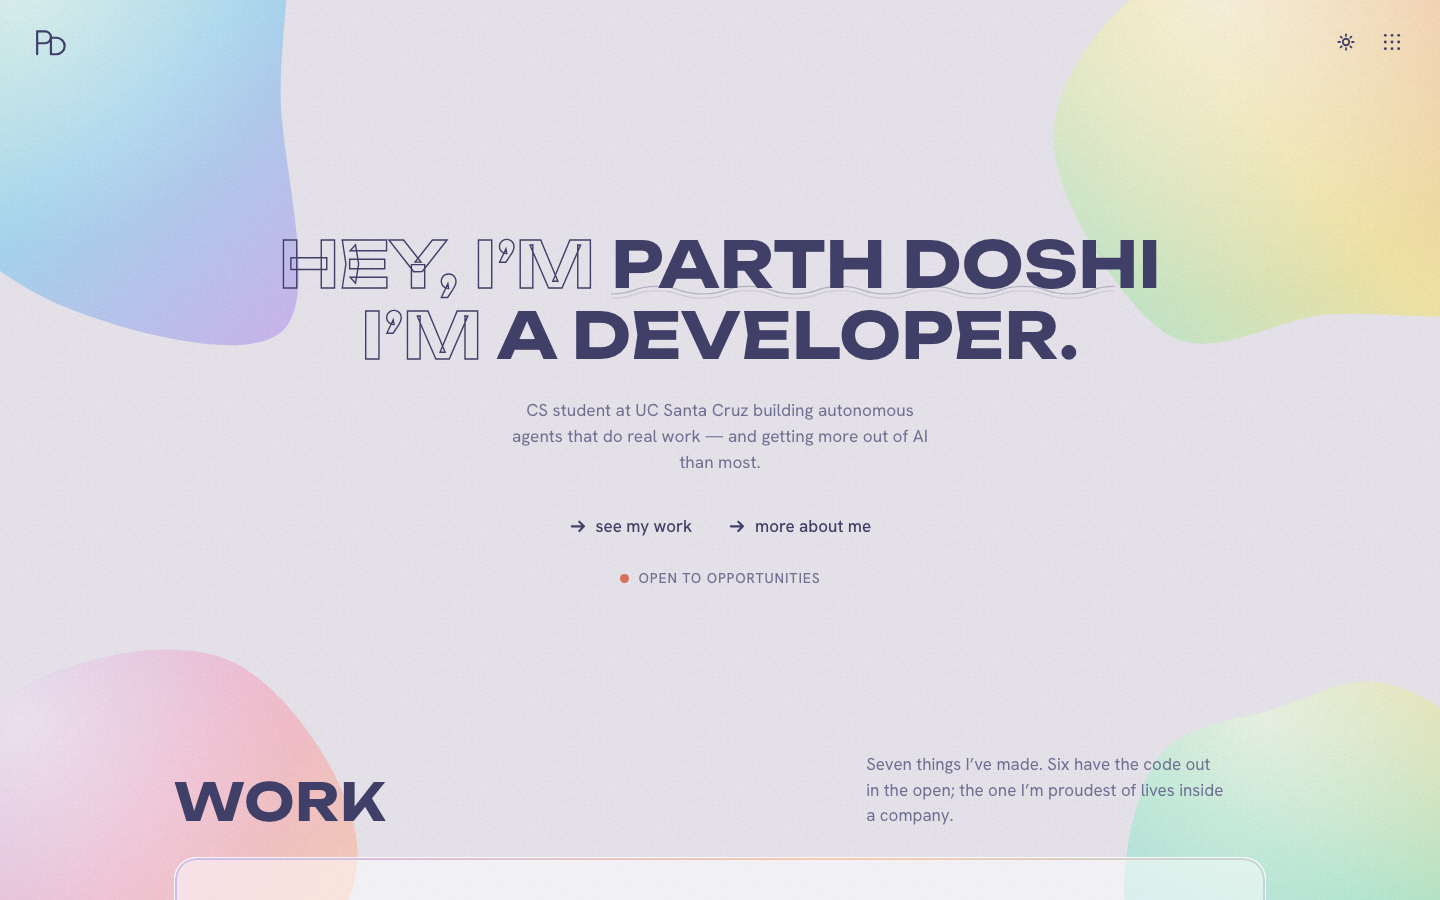
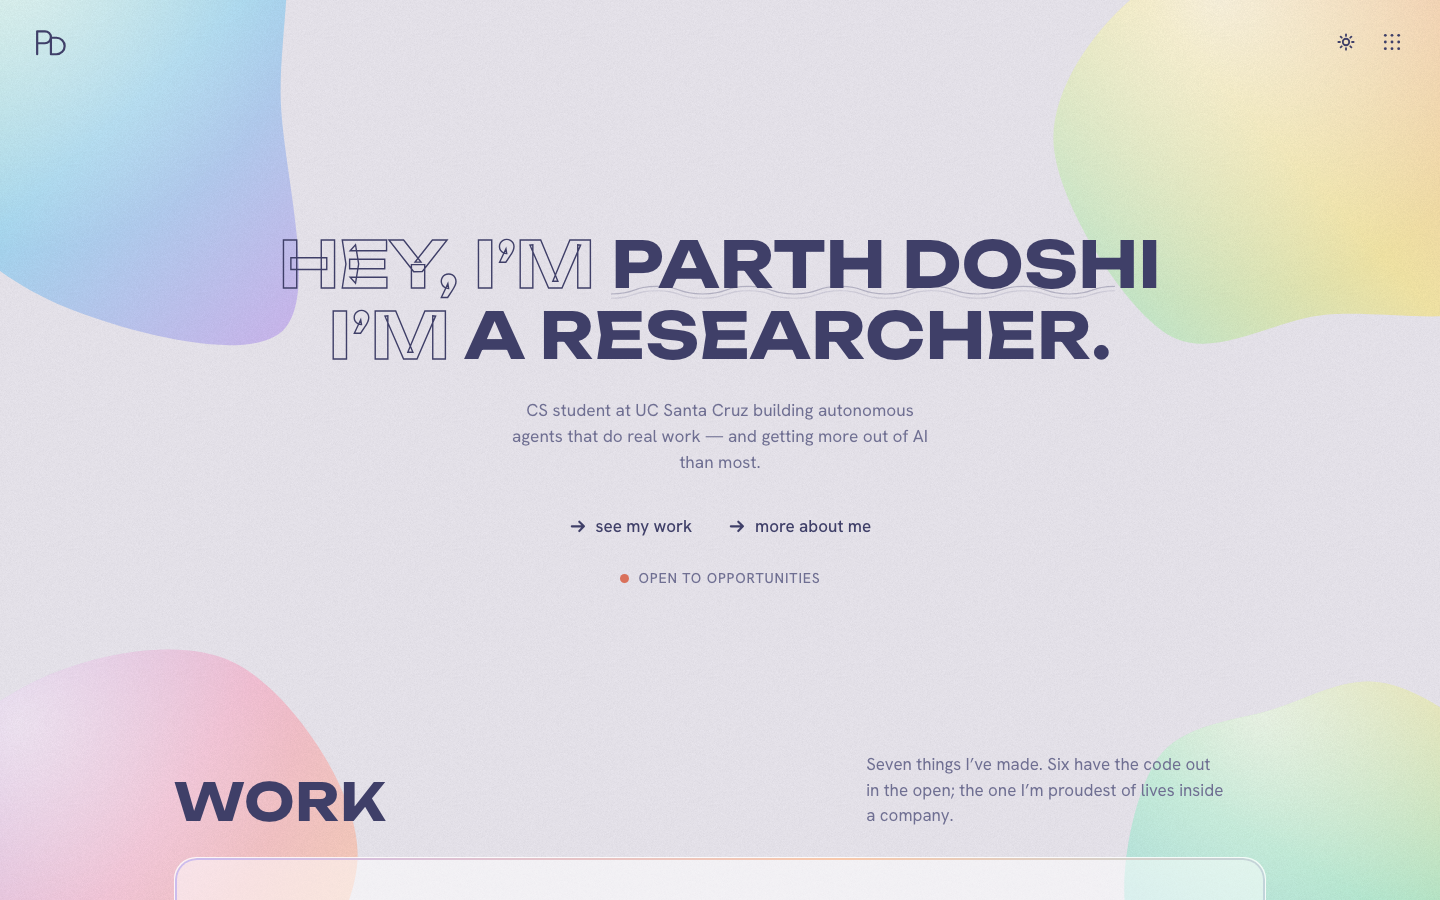
Record the holographic direction contract, stack, resume, and the hobbies decision

Changed region(s): [[0.2188, 0.3422, 0.7812, 0.4044]]

diff --git a/.impeccable/surfaces/homepage.md b/.impeccable/surfaces/homepage.md
@@ -9,50 +9,45 @@ related_targets: []
 
 ## Scope & Mode
 
-Single-page portfolio landing surface. Mode: Experience (portfolio/showcase), carrying Persuade-grade scanability for the recruiter audience.
+Single-page portfolio landing surface. Mode: Experience (portfolio/showcase), carrying Persuade-grade scanability for the recruiter audience. Sections: Hero → Work → Stack → About → Contact.
 
 ## Audience, Job, Action, Proof, Constraints
 
 - Audience: recruiters/hiring managers screening fast; peers/professional network browsing casually. Both must be served at once.
-- Job/action: judge technical depth and agentic-systems credibility quickly; primary actions are opening the Operations Agent case study and reaching GitHub/LinkedIn/email.
-- Proof/content: 7 real projects (Operations Agent flagship — no public repo, case-study only; ScorelyAI; SantaClaws; Wave Function Collapse; WordPlay; Pewter Platformer; Gestura); confirmed GitHub, LinkedIn, email.
-- Constraints: never fabricate metrics/testimonials/adoption numbers; resume PDF not yet supplied (pending asset); no auth/backend needed; light theme only.
+- Job/action: judge technical depth and agentic-systems credibility quickly; primary actions are opening the Operations Agent case study, downloading the résumé, and reaching GitHub/LinkedIn/email.
+- Proof/content: 7 real projects (Operations Agent flagship — no public repo, case-study only); Parth's own 29-tool stack in his own grouping; confirmed GitHub, LinkedIn, email; résumé live at `public/resume.pdf`.
+- Constraints: never fabricate metrics/testimonials/adoption numbers; no tool→project mapping and no fluency ordering exist, so neither may be inferred; the sport behind "an athlete" and the mentoring context are still unsupplied and must not be invented.
 
 ## Chosen Direction & Memorable Moment
 
-User-pinned reference world (see PRODUCT.md Brand Commitments and `.impeccable/references/`); Seán's reference leads. Memorable moment: the two-line rounded display headline settling in over a slowly drifting warm gradient wash, sparkles blinking, and the pastel project cards rising into view with their status labels.
+User-pinned reference world — Sharlee's holographic blobs lead (`.impeccable/references/ref-2-sharlee-holographic-blobs.png`). Memorable moment: the outline-and-fill headline, where "I'm" stays hollow and the filled phrase after it rolls through Parth's six self-descriptions, landing on "obsessed with AI." in the accent.
 
 ## Execution Contract
 
-No image generation is available in this environment — code-led is the only path (stated, not asked); the FIRST VIEWPORT block and signature interaction carry the ambition the finish review audits.
+No image generation exists in this environment — code-led (stated, not asked). The FIRST VIEWPORT block and the named signature interaction carry the ambition the finish review audits.
 
 ## Superseded
 
-Mission Control / Ops Console (seed b925b460, Impeccable's Pick) was locked on 2026-09-01 and then superseded the same day by the user's pinned references. Its one kept idea: a status label per project (● IN USE / SHIPPED / RESEARCH), translated into the pinned world's tracked-caps card labels.
-
-## Finish (2026-09-01)
-
-FINISH line discharged. Detector: zero findings. Finish review (fresh general-purpose agent on `degraded/finish-reviewer.md`, substituted because the shipped agents are Codex-only here): disposition **fix** with 8 material findings → all 8 scored **resolved** on the verdict pass → disposition **ship**. DESIGN.md and `.impeccable/design.json` written by the documenter from the built code. No shipping rasters exist (all card art is inline SVG geometry), so no provenance embedding was owed. Evidence: `.impeccable/review/{desktop,mobile}{,-fold}.png`.
+1. Mission Control / Ops Console (seed b925b460) — locked, then superseded by the user's pinned references.
+2. Editorial grotesk (Archivo, stone/sand/deep-green) — shipped, then superseded on 2026-09-01 when the user pinned Sharlee's holographic reference and asked to go "full holographic".
+3. A Hobbies section — planned, then cut: with no photos or detail it would be the only content-free section, and About plus the hero's rolling phrases already carry the personality.
 
 ## Unresolved Decisions
 
-- Final hero copy (draft: "Hi. I'm Parth. / I build with AI.") and subline wording.
-- Whether a contact form is added beyond direct email/LinkedIn links.
-- Final resume asset (PDF not yet supplied).
-- Exact display typeface (chosen at build; rounded, friendly, with personality, not a training-data default).
+- One About sentence grounding "an athlete" and "a mentor" — blocked on the sport and the mentoring context.
+- Whether Tailwind stays under "Languages" (the user's own grouping) or moves to Frameworks.
+- Whether to add tool→project links in the Stack orbit (needs a mapping that does not exist yet).
 
 ## Direction contract
 
-THESIS: A confident, editorial self-introduction at monumental scale on a quiet stone wash, projects as flat cards in sand, stone, and deep green; refuses the dark-terminal dev portfolio, the sterile résumé page, and the candy-pastel first pass.
+THESIS: A holographic self-introduction — iridescent blobs, grain and wide outline caps — where the visitor meets a person who is several things at once; refuses the dark-terminal dev portfolio, the sterile résumé page, and the candy-pastel first pass.
 
-OWN-WORLD: Desaturated warm-stone gradient wash; near-black-green ink; a tight grotesk (Archivo, width ~88%) for display; burnt ochre as the single accent; pill nav and buttons; radius-20 cards in sand / stone with one deep-green card per row, cream text on green; small tracked-caps labels in the card foot; no sparkles, no blob, no grain.
+OWN-WORLD: Lavender-grey ground with four deterministic iridescent blobs and a real 128px grain tile; slate-indigo ink; Unbounded caps with outline-and-fill contrast; Hanken Grotesk for everything else; coral accent used only for the finale phrase, the status dot, the email underline and the scroll ring; frosted glass cards with a gradient edge on every other one. Dark is a second world (deep indigo, blobs lit and held to 62%), not an inverted filter.
 
-STORY: Visitor meets Parth by full name, reads the one-line positioning, sees the "Open to opportunities" line, scrolls into the cards — Operations Agent first, largest, and deep green — and leaves with "serious, ships real AI systems, easy to reach."
+STORY: Visitor meets Parth by name in outline-and-fill caps, watches the phrase after "I'm" roll through developer / researcher / computer scientist / athlete / mentor and land on "obsessed with AI."; scrolls into seven projects with the Operations Agent flagship first; reads the stack as three rings; leaves able to reach him or take the résumé.
 
-FIRST VIEWPORT: Centered pill nav (Work / About / Contact); a left-aligned hero column on the 1200px grid: two-line tight-grotesk headline "Hey, I'm Parth. / I'm [rolling phrase]"; one-sentence subline; pill CTA pair (Get in touch → / GitHub); status line beneath; the top of the deep-green flagship card peeking above the fold.
+FIRST VIEWPORT: Centred hero. "HEY, I'M" outline + "PARTH DOSHI" filled over a two-pass sine wave; "I'M" outline + the rolling phrase; one-sentence subline; two arrow links (see my work / more about me); status line. Monogram top-left, theme toggle and dot-grid menu top-right, blobs in all four corners with a calm centre.
 
-MOTION (the page's one authored moment, added 2026-09-01): the first phrase "a developer." types in once behind a solid ink caret sized to the cap height; the caret leaves; then every 2.4s the next phrase rolls in from below through a clipped line box on the site's ease-out while the old one exits upward faster. Phrases, verbatim from the user: a developer. / a researcher. / a computer scientist. / an athlete. / a mentor. / obsessed with AI. — the last is the finale: held 4.2s and set in the ochre accent. Pauses on hover and when the tab is hidden; click advances. Reduced motion: a static list, no typing, no roll. The h1 carries the full sentence for assistive tech; the animating slot is aria-hidden.
-
-FORM: User-pinned reference world (beats the roll) — Seán's structure leads, Ram's temperament sets the register; refined 2026-09-01 to "Editorial grotesk" at the user's request (first pass read too bubbly). Supersedes seed b925b460.
+FORM: User-pinned reference world (beats the roll) — Sharlee leads, Ram donates the status line, Seán's structure survives in the section rhythm. Supersedes seed b925b460 and the editorial-grotesk pass.
 
 FINISH: unreviewed and undocumented is unfinished; this build ends with the finish review, the verdict, DESIGN.md, and every shipping raster carrying its provenance.

diff --git a/PRODUCT.md b/PRODUCT.md
@@ -45,6 +45,7 @@ Visitors are doing fast technical screening (recruiters) or casual browsing (pee
 - Name: Parth Doshi.
 - No existing logo, color system, or typographic identity.
 - Pinned visual references (binding; added 2026-09-01): three portfolio screenshots at `.impeccable/references/` (`ref-1-sean-warm-gradient.png` leads; `ref-2-sharlee-holographic-blobs.png` and `ref-3-ram-editorial-serif.png` contribute details). Shared traits the user pinned: light airy ground, a big name-led typographic hero, a recurring lavender accent, rounded pill controls, playful decoration (sparkles, soft gradient blobs). Light theme only — no dark mode.
+- No hobbies section (decided 2026-09-01). With no photos or detail behind it, it would be the only section with no real content, and it dilutes a page whose argument is applied AI systems. The personality it would have carried is served by the About section and the hero's rolling self-descriptions instead.
 - Register (added 2026-09-01 after the first build): adult and editorial, never bubbly — the user said the first pass (candy pastels, 40px corners, sparkles, glossy blob, puffy rounded type) read like a child's site. Chosen refinement, "Editorial grotesk": tight grotesk display in near-black-green, flat radius-20 sand/stone cards with one deep-green card per row, desaturated stone wash, no sparkles or blob. Same structure, still light-only and name-led.
 
 ## Evidence on Hand
@@ -52,7 +53,13 @@ Visitors are doing fast technical screening (recruiters) or casual browsing (pee
 - GitHub: https://github.com/PartyD1
 - LinkedIn: https://www.linkedin.com/in/parthmdoshi/
 - Email/contact: pmdoshi@ucsc.edu
-- Resume: PDF exists; not yet added to the project (no file/path yet — do not fabricate its content).
+- Resume: supplied by Parth on 2026-09-01 and live at `public/resume.pdf` (gated by `resume.ready` in `data/site.ts`).
+- Tech stack (Parth's own list and grouping, 2026-09-01), recorded in `data/stack.ts`:
+  - Languages: Python, Java, JavaScript, TypeScript, C, HTML, CSS, Bash, Tailwind, Elixir.
+  - Frameworks/libraries: FastAPI, Flask, React, Next.js, PyTorch, TensorFlow, Pandas, Pydantic, LangChain.
+  - Developer tools: Node.js, PostgreSQL, Supabase, OpenAI API, NemoClaw, Vercel, Apify, Git, Jupyter, OpenClaw.
+  - Not established: which project used which tool, and any fluency ordering. Do not infer either.
+- Still not supplied: which sport "an athlete" refers to, and the mentoring context. The hero claims both, so one grounding sentence in About is owed once Parth answers. Do not invent a sport or a mentee group.
 
 Real projects to feature:
 
